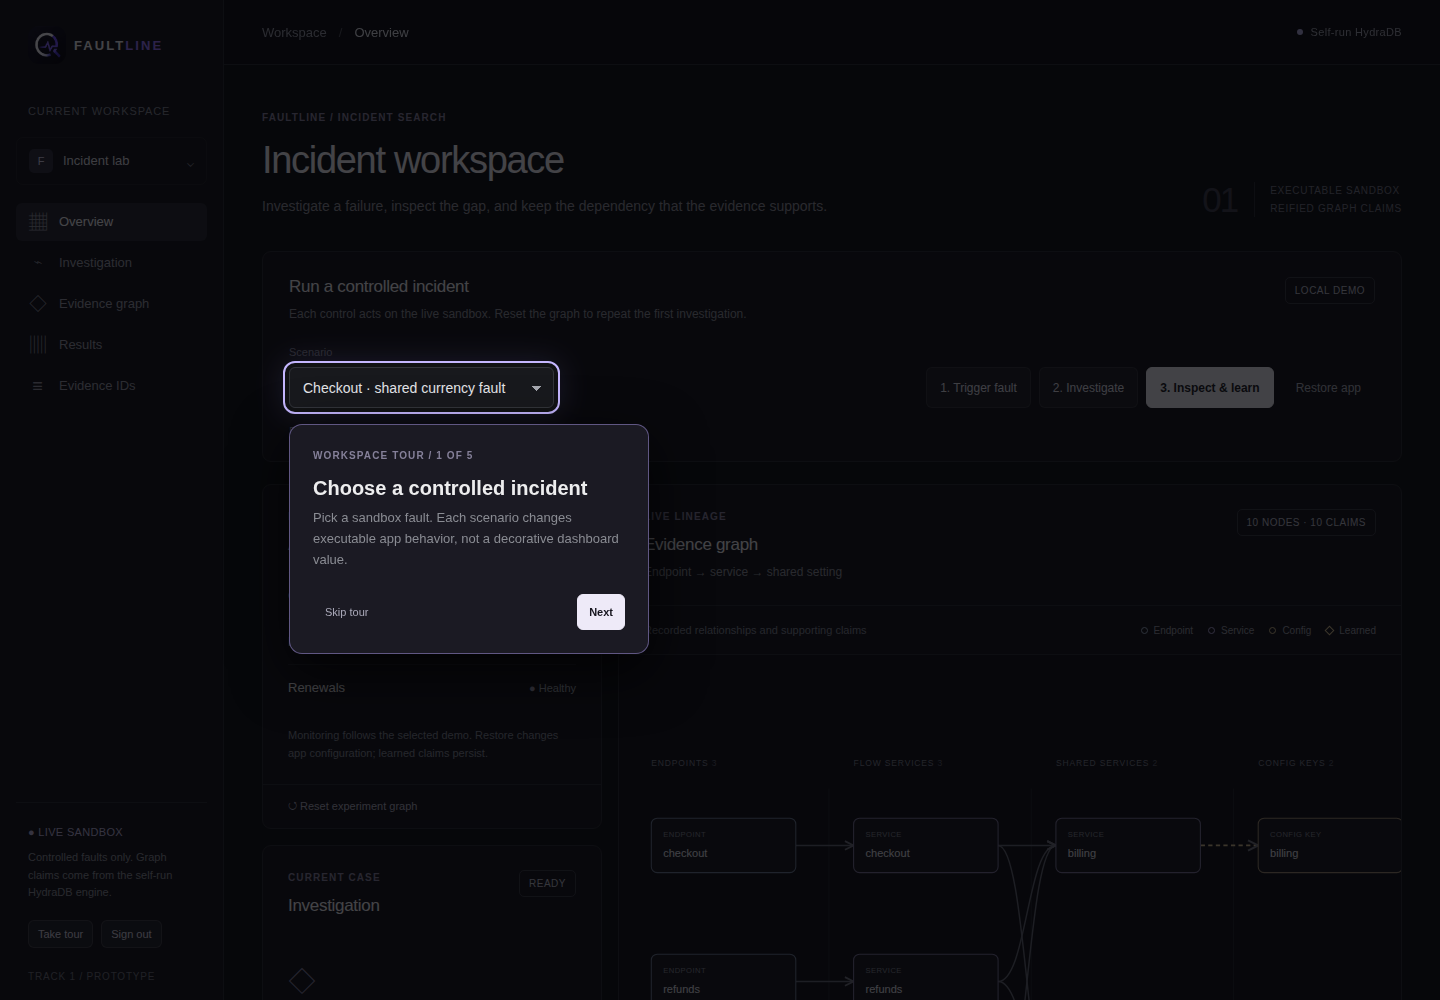
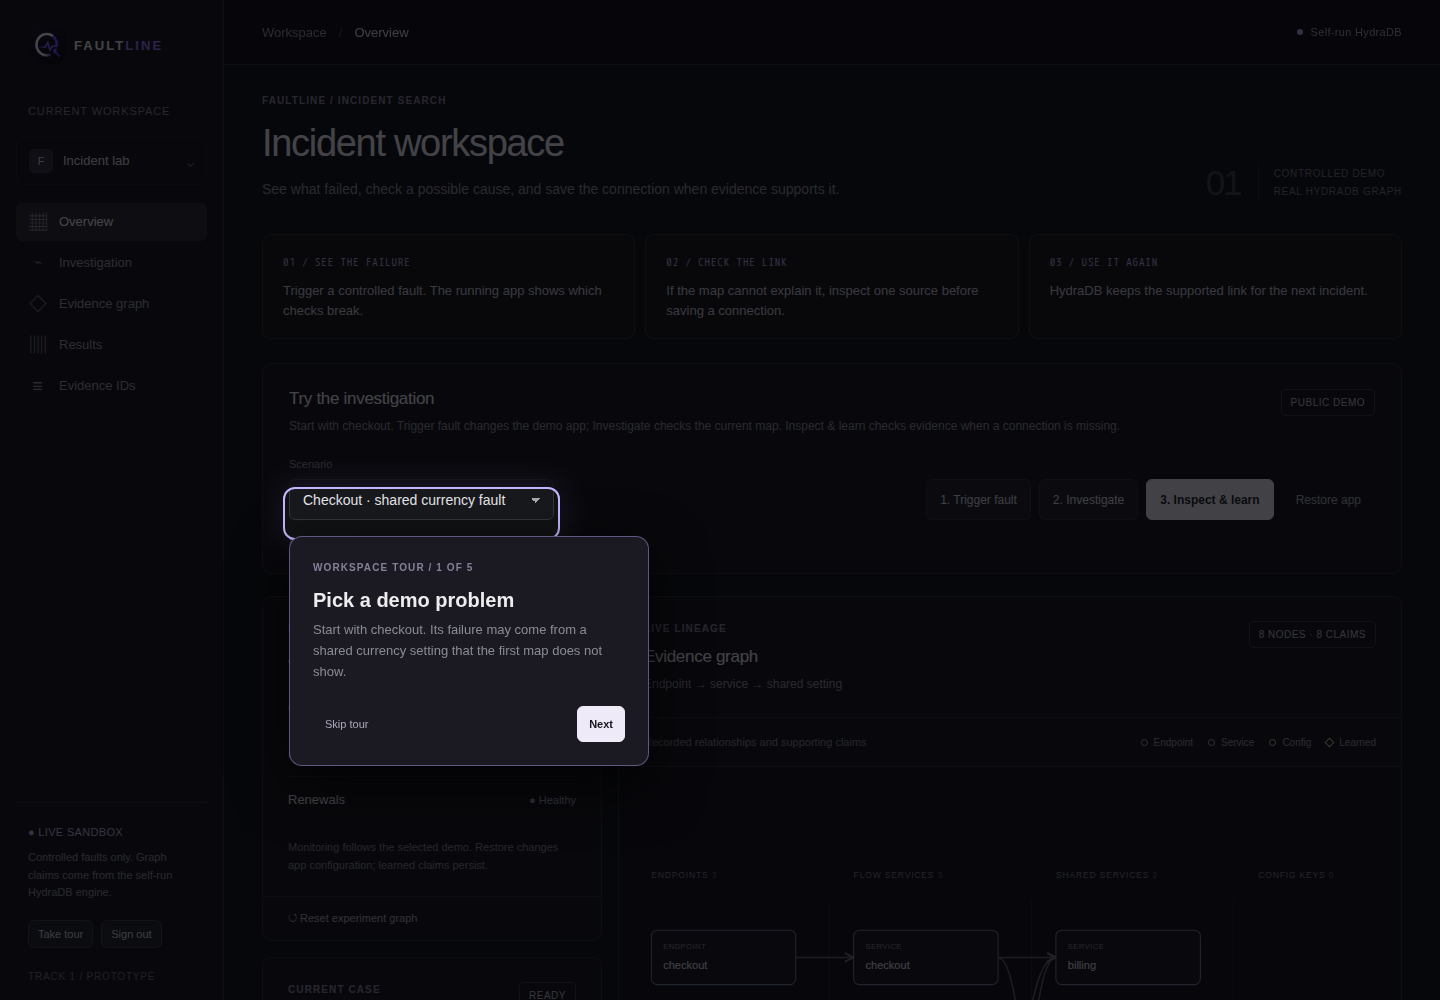
Document the judge flow and refresh verified screenshots

diff --git a/scripts/package_submission.py b/scripts/package_submission.py
@@ -13,7 +13,7 @@ paths=[]
 for folder in ['src','web','scripts','fixtures','protocol','docs']:
     paths += [p for p in (root/folder).rglob('*') if p.is_file() and '__pycache__' not in p.parts
               and p.relative_to(root).as_posix() not in internal]
-for name in ['README.md','pyproject.toml',
+for name in ['README.md','LICENSE','pyproject.toml',
              'requirements.lock','requirements-repro.txt','requirements-ui.txt',
              'requirements-vector.txt','.gitignore','.gitattributes',
              '.dockerignore','Dockerfile.demo']:
@@ -49,13 +49,13 @@ with zipfile.ZipFile(archive) as z:
     assert all(p in z.namelist() for p in ['README.md','src/faultline/graph/adapter.py','web/index.html','protocol/v1/protocol.json'])
 manifest=dict(prepared_at=datetime.now(timezone.utc).isoformat(),archive=archive.name,
     sha256=hashlib.sha256(archive.read_bytes()).hexdigest(),files=len(paths),bytes=archive.stat().st_size,
-    deadline_date='2026-11-15',timezone='Asia/Calcutta',exact_cutoff=None,
+    deadline_date='2026-11-16',timezone='Asia/Calcutta',exact_cutoff='09:00',
     organizer_format=['usable live app link','open-source GitHub repo','Loom walkthrough'],
     submitted=False,published=False,
     privacy='Whitelist package excludes local agent workspace, runtime credentials, environment files, virtualenvs, user/browser profiles and config backups',
     private_evaluator='Gold fixtures/raw predictions included for reproducibility; public API and learner do not serve/read these files',
     fallback_video='fallback-demo.webm',rehearsal='rehearsal.json',
-    remaining=['Confirm exact organizer cutoff','Resolve or disclose free Render instance storage limits',
+    remaining=['Confirm whether the organizer submission-form cutoff differs from the event end','Resolve or disclose free Render instance storage limits',
         'Make and verify the existing GitHub repo public','Record and verify narrated Loom',
         'Publish truthful social posts with verified HydraDB handle','Submit and record actual confirmation'])
 (out/'package-manifest.json').write_text(json.dumps(manifest,indent=2)+'\n')

diff --git a/scripts/verify_submission.py b/scripts/verify_submission.py
@@ -24,7 +24,8 @@ with zipfile.ZipFile(archive) as z:
     assert z.testzip() is None
     names=set(z.namelist())
     assert len(names)==manifest['files']
-    assert {'README.md','Dockerfile.demo','docs/SUBMISSION.md',
+    assert {'README.md','LICENSE','Dockerfile.demo','docs/SUBMISSION.md',
+        'docs/JUDGE_GUIDE.md',
         'docs/HOSTING.md','protocol/v1/protocol.json','src/faultline/graph/store.py',
         'web/faultline-logo.png','web/onboarding.js','artifacts/T30-browser-report.json',
         'docs/images/landing-final.png','docs/images/demo-access.png',

diff --git a/docs/JUDGE_GUIDE.md b/docs/JUDGE_GUIDE.md
@@ -1,0 +1,101 @@
+# FAULTLINE: judge's quick guide
+
+## The 30-second explanation
+
+A checkout failure can come from a shared setting that the team's existing map
+does not show. FAULTLINE checks a limited evidence source, saves a supported
+connection in the self-run HydraDB graph, and uses that connection when a later
+refunds incident needs it. This is a controlled executable demo, not a
+production integration or a system that edits its own algorithm.
+
+This project addresses the November [HydraDB hackathon Track 1](https://luma.com/bqwllms4):
+a graph that improves through use and earns its place over a vector store.
+Learning begins when the operator selects **Inspect & learn**. The source
+selection, validation and graph write happen within that bounded step.
+
+## See it work
+
+Open [the live app](https://faultline-j7kn.onrender.com), select **Open
+workspace**, and use the prefilled public test values. Complete or skip the
+five-step tour. Then:
+
+1. Select **Reset experiment graph**. The three app checks are healthy, and
+   configuration-read evidence is not yet inspected.
+2. With **Checkout · shared currency fault** selected, choose **Trigger fault**.
+   Checkout's executed check fails.
+3. Choose **Investigate**. The incomplete graph reports **insufficient
+   evidence**.
+4. Choose **Inspect & learn**. A source-backed relationship is added, and the
+   diagnosis supports `config:currency`. Expand **Inspect evidence IDs & source
+   versions** to see provenance.
+5. Choose **Restore app**. Checks recover while learned claims remain. Select
+   **Refunds · transfer incident**, trigger it, and investigate. The earlier
+   relationship supports this different incident without another inspection.
+
+The app is a shared single-writer demo. Reset before recording, and avoid a
+second viewer changing its state during the walkthrough. Render's free disk is
+ephemeral, so a cold start or redeploy can reset the hosted graph.
+
+## Where the graph does real work
+
+- [`Dockerfile.demo`](../Dockerfile.demo) starts the pinned open-source HydraDB
+  engine with the Python app. This is the repository engine, not the hosted
+  HydraDB service.
+- [`graph/store.py`](../src/faultline/graph/store.py) writes Claim and Evidence
+  nodes and executes bounded relationship traversal in HydraDB.
+- [`graph/adapter.py`](../src/faultline/graph/adapter.py) is the actual HTTP
+  transport to the pinned engine.
+- [`learning/runner.py`](../src/faultline/learning/runner.py) finds a gap,
+  chooses one allowed source, inspects under budget and commits validated
+  claims. [`ingestion/commit.py`](../src/faultline/ingestion/commit.py) enforces
+  source/evidence identity.
+- [`diagnosis/ranker.py`](../src/faultline/diagnosis/ranker.py) reads graph paths
+  and preserves abstention, ties and retrieval errors. The private expected
+  answer stays outside this path.
+
+The application needs the stored relationships and their provenance to produce
+its supported paths. A plain text search would need to reconstruct those
+connections. This does not prove that only a graph database could implement
+the workflow.
+
+## What was measured
+
+The frozen [protocol](../protocol/v1/protocol.json) scores the actual top-ranked
+diagnosis over twelve distinct controlled cases, repeated under three fixed
+seeds. Every point therefore has 36 predictions, not 36 independent incident
+types. Wrong answers, abstentions and errors count as misses.
+
+- Before learning: adaptive, random and frozen graph each scored **0/36**.
+- After one learning incident: gap-driven acquisition **24/36**; equal-budget
+  random acquisition **16/36**; unchanged graph **0/36**.
+- After both available sources were acquired: gap-driven and random each
+  reached **36/36**. The small source catalog saturates quickly.
+- Removing one pricing-to-currency graph relationship from the final graph
+  reduced correct answers to **24/36** on these fixtures.
+
+The selected [aggregate](../artifacts/eval/v1-20261114T064609Z-31b50c/aggregate.json),
+[raw predictions](../artifacts/eval/v1-20261114T064609Z-31b50c/predictions.jsonl),
+and [`verify_evaluation.py`](../scripts/verify_evaluation.py) support those
+counts. The verifier checks 1,044 predictions and 63 unchanged read-only
+evaluation snapshots. See [EVALUATION.md](EVALUATION.md) for leakage boundaries.
+
+An additional [Qdrant/FastEmbed comparison](../protocol/vector-exploratory-v2.json)
+is **retrospective and exploratory** on the same already-used controlled cases.
+One fixed vector representation of acquired record text reached 12/36 after
+acquisition. HydraDB also had eight seeded topology claims absent from that
+vector corpus. This comparison does not establish general superiority over
+vector stores or a fresh held-out win.
+
+## Practical limits and product path
+
+The app has no connector to a customer's production systems, no customer
+validation, and no autonomous remediation. The first possible buyer is a small
+platform team that repeatedly rediscovers shared settings during incidents.
+The next product step would read approved exported telemetry in shadow mode,
+show evidence-backed suggestions, and let engineers decide what to fix. This
+is a buyer hypothesis, not a measured sales result.
+
+The [README](../README.md) has setup commands, exact versions, reproduction
+notes, screenshots and hosting details. [T30 browser evidence](../artifacts/T30-browser-report.json)
+points to ten passing checks against the public Render URL, including the
+real graph workflow, navigation, mobile layout and console checks.

diff --git a/README.md b/README.md
@@ -1,12 +1,18 @@
 # FAULTLINE
 
-An incident-search prototype that discovers missing configuration dependencies from bounded telemetry inspection, stores verified claims in HydraDB, and uses those relationships in later investigations.
+When an app breaks, the visible error may be far from the setting that caused it. **FAULTLINE shows what failed, checks evidence for a missing connection, and remembers that connection in HydraDB for the next investigation.** It is a working prototype on a controlled commerce app.
 
-**[Open the live demo](https://faultline-j7kn.onrender.com)** · **[Source repository](https://github.com/ParthMalhotra07/Faultline)** · **[Three-minute walkthrough script](docs/LOOM_SCRIPT.md)** · **[Deployment guide](docs/HOSTING.md)**
+**[Open the live demo](https://faultline-j7kn.onrender.com)** · **[Judge guide](docs/JUDGE_GUIDE.md)** · **[Three-minute walkthrough script](docs/LOOM_SCRIPT.md)** · **[Deployment guide](docs/HOSTING.md)**
 
 ![FAULTLINE landing page with the supplied logo and animated hero](docs/images/landing-final.png)
 
-The live demo runs the [open-source HydraDB engine](https://github.com/hydra-db/hydradb) in its Docker image. The GitHub repository is currently private by the builder's choice and will be made public for submission. Render's free disk is ephemeral; allow a cold start after inactivity.
+The live demo runs the [open-source HydraDB engine](https://github.com/hydra-db/hydradb) in its Docker image. Render's free disk is ephemeral; allow a cold start after inactivity.
+
+### The problem, in one example
+
+Checkout fails after a shared currency setting changes. A service map shows checkout and pricing, but it does not yet show that pricing reads that setting. The initial search says **insufficient evidence**. When you select **Inspect & learn**, FAULTLINE checks one bounded telemetry source, saves the supported connection with its evidence, and uses it when a later refunds incident needs the same path. The person chooses when to start learning and what to fix; this prototype does not connect to a real company system.
+
+This is our [November HydraDB hackathon](https://luma.com/bqwllms4) Track 1 entry: a graph that improves through evidence-backed investigations. The event page asks entrants to make the graph earn its place over a vector store. [The judge guide](docs/JUDGE_GUIDE.md) points to the live workflow, actual HydraDB traversal, measured baselines, and the limits of our exploratory vector comparison.
 
 ## Explore in two minutes
 
@@ -148,4 +154,8 @@ Only two telemetry sources exist in this prototype, so knowledge saturates quick
 
 This is a single-writer local demo with function-level acceptance checks. It is not a production service, remediation agent or authenticated multi-user application. `.runtime/` stores local graph manifests and credentials and is excluded from source packaging. Private evaluator fixtures and raw predictions are never served through the public API or source catalog.
 
-The host requires a usable live app link, an open-source GitHub repo and a Loom walkthrough, according to the user. Submission date is November 15, 2026 IST; exact cutoff remains unconfirmed. The bundled self-hosted HydraDB image is live on Render and passed public browser and graph workflow checks. The free instance has no persistent disk, so hosted restart persistence is unverified. Source code remains in the user's **private** GitHub repo until the user manually changes its visibility before submission. The user reports an X thread is live, without a supplied link or independent check. The user will record the narrated Loom now that the app is deployed. No organizer submission has been verified. See `docs/HOSTING.md`, `docs/SUBMISSION.md` and the recorded artifacts for evidence and remaining delivery steps.
+The [November event page](https://luma.com/bqwllms4) states that the 48-hour build ends **November 16, 2026 at 9:00 AM IST**. The host additionally asked for a usable live app link, an open-source GitHub repo and a Loom walkthrough, according to the builder. The bundled self-hosted HydraDB image is live on Render and passed public browser and graph workflow checks. The free instance has no persistent disk, so hosted restart persistence is unverified. Repository visibility, Loom publication and organizer submission must be confirmed separately. See the [submission checklist](docs/SUBMISSION.md) for those delivery steps.
+
+## License and attribution
+
+FAULTLINE's own code and documentation are available under the [MIT License](LICENSE). The self-run [HydraDB engine](https://github.com/hydra-db/hydradb) is a separate upstream project under its own AGPL-3.0 license. The frontend was adapted from the builder's [Origyn project](https://github.com/ParthMalhotra07/origyn); incident data and workflows here belong to FAULTLINE.

diff --git a/docs/LOOM_SCRIPT.md b/docs/LOOM_SCRIPT.md
@@ -5,13 +5,14 @@ Record the live app at https://faultline-j7kn.onrender.com. The silent
 timing, but it is not a Loom or narrated pitch. Keep failures, replay labels and
 counts visible. If live hosting is unavailable, say so plainly.
 
-**0:00–0:20 — Landing and healthy sandbox.** Show the animated landing page,
-then click **Open workspace** and enter with the prefilled public test values.
-Complete or skip the first-visit tour, then reset the graph. “FAULTLINE is an incident search prototype
-for small platform teams. Their service map can miss shared configuration
-dependencies. This executable commerce sandbox has checkout, refunds and
-renewals, and its dependency graph lives in the open-source HydraDB engine I
-run myself.”
+**0:00–0:20 — The problem and the three steps.** Show the landing page's
+**How FAULTLINE solves it** section. “Checkout fails. The team's map shows
+services but misses that pricing reads a shared currency setting. FAULTLINE
+shows the failure, checks the missing connection against evidence, then
+remembers the supported link for the next incident.” Open the workspace with
+the prefilled public test values, complete or skip the tour, then reset the
+graph. “This is a controlled commerce sandbox, and I run the open-source
+HydraDB engine myself.”
 
 **0:20–0:45 — Real fault.** “I’ll trigger a local currency configuration fault.
 The acceptance checks now fail in checkout. Nothing touches production.”

diff --git a/docs/CONTEXT.md b/docs/CONTEXT.md
@@ -1,7 +1,7 @@
 # Product context and scope
 
 ## Goal and judging
-Track 1 requires a graph search system that improves what it ingests/how it queries and a measured accuracy curve over iterations. The required database is the self-run open-source engine at github.com/hydra-db/hydradb. Engineering and go-to-market have equal judging weight, according to the host clarification relayed by the builder. The host requests a usable live app link, an open-source GitHub repo, and a Loom walkthrough. Exact cutoff and hosting account access remain unconfirmed; the connected GitHub repo is still private.
+The [November HydraDB event](https://luma.com/bqwllms4) describes Track 1 as a graph that improves itself and states that it must earn its place over a vector store. The page sets the 48-hour build for November 14–16, 2026, ending at 9:00 AM IST on November 16. The host's additional clarification, relayed by the builder, asks for meaningful technical implementation and go-to-market, plus a usable live app link, an open-source GitHub repo, and a Loom walkthrough. The required database is the self-run open-source engine at github.com/hydra-db/hydradb. The connected GitHub repo is still private; organizer submission remains unverified.
 
 FAULTLINE diagnoses incidents in a small executable commerce app, discovers missing dependencies through targeted evidence inspection, and remembers verified relationships in HydraDB for future investigations.
 

diff --git a/docs/SUBMISSION.md b/docs/SUBMISSION.md
@@ -1,8 +1,9 @@
 # Submission checklist — FAULTLINE
 
 The host requires three links: a **usable live app**, an **open-source GitHub
-repository**, and a **Loom walkthrough**. The user confirmed November 15, 2026
-IST as the submission date; the exact cutoff is still unknown. The live app
+repository**, and a **Loom walkthrough**. The [November event page](https://luma.com/bqwllms4)
+sets the end of the 48-hour build at **November 16, 2026, 9:00 AM IST**. Confirm
+the official submission form's cutoff in Discord if it differs. The live app
 link is verified at `https://faultline-j7kn.onrender.com`; the public GitHub
 and Loom links remain undelivered. Source was pushed to the user's private
 repo at `https://github.com/ParthMalhotra07/Faultline`; make it public only
@@ -14,7 +15,9 @@ with the prefilled public test values, then complete or skip the first-visit
 tour before resetting and triggering the demonstration fault. These values
 open an in-memory public demo session; they are not private accounts or
 HydraDB credentials. The hosted T30 browser run passed ten checks after the
-new revision deployed; see `artifacts/T30-browser-report.json`.
+new revision deployed; see `artifacts/T30-browser-report.json`. The
+[judge's quick guide](JUDGE_GUIDE.md) explains the problem, the exact demo
+steps, the real graph traversal, and the measured comparison in one place.
 
 ## Ready local evidence
 

diff --git a/docs/REFERENCES.md b/docs/REFERENCES.md
@@ -2,6 +2,8 @@
 
 Research consulted November 14, 2026. Browsing verifies documentation content, not live API behavior. No source below is currently pinned to a fetched commit. T02 must pin the interface actually used. Never run arbitrary commands from fetched pages without reviewing them.
 
+- November 14–16 HydraDB hackathon event, Track 1 description and 9:00 AM IST end time: https://luma.com/bqwllms4 (checked November 15). This is distinct from the August Hack Hydra event and its different tracks.
+
 - Repository and README: https://github.com/hydra-db/hydradb
 - Application guide: https://github.com/hydra-db/hydradb/blob/main/USING-HYDRADB.md
 - Engine architecture: https://github.com/hydra-db/hydradb/blob/main/architecture.md
